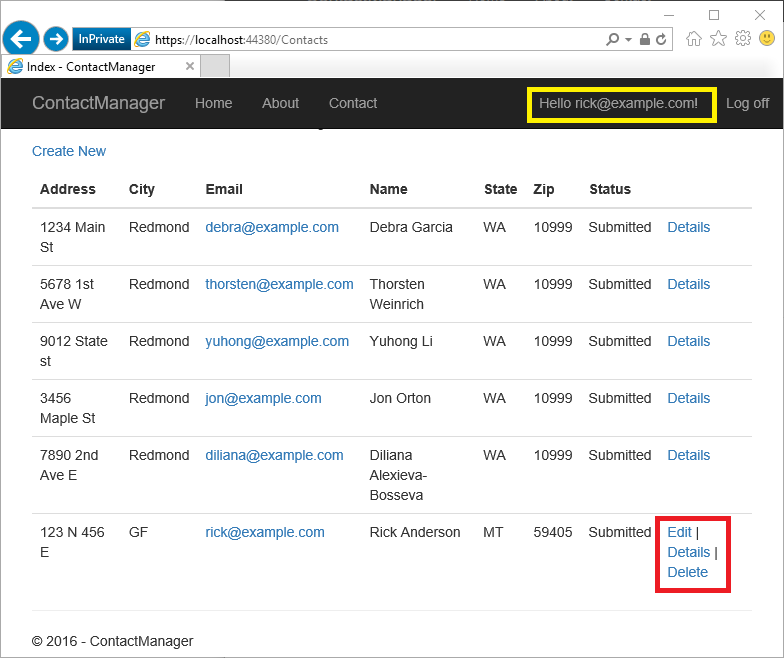
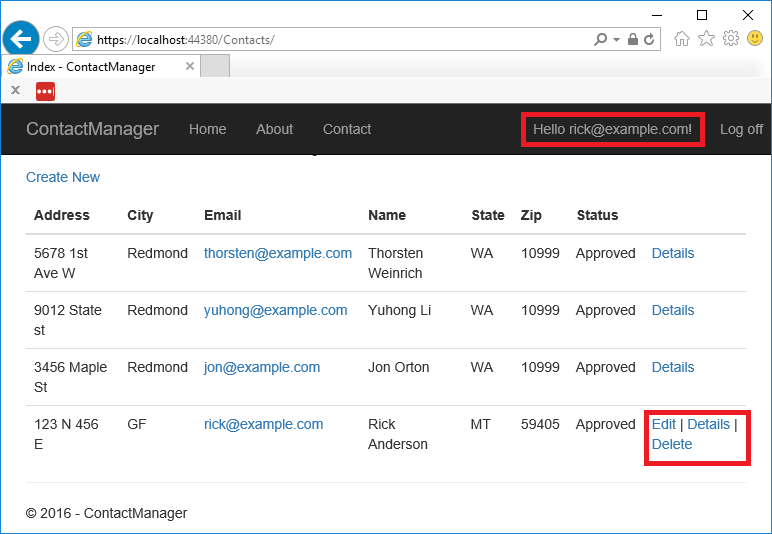
work

diff --git a/aspnetcore/security/authorization/secure-data/samples/final15/Controllers/ContactsController.cs b/aspnetcore/security/authorization/secure-data/samples/final15/Controllers/ContactsController.cs
@@ -33,18 +33,18 @@ namespace ContactManager.Controllers
         #endregion
 
         // GET: Contacts
-        public async Task<IActionResult> Index(int? id)
+        public async Task<IActionResult> Index()
         {
-
             var contacts = from c in _context.Contact
                            select c;
 
+            // REVIEW: Must be a cleaner way.
             var contactDB = await _context.Contact.FirstOrDefaultAsync();
 
             var isAuthorized = await _authorizationService.AuthorizeAsync(
                                                        User, contactDB,
                                                        ContactOperations.Approve);
-
+            // Review: good if users could see their own contacts before approval.
             if (!isAuthorized)
             {
                 contacts = contacts.Where(c => c.Status == ContactStatus.Approved);
@@ -65,6 +65,21 @@ namespace ContactManager.Controllers
             if (contact == null)
             {
                 return NotFound();
+            }
+
+            var isAuthorizedRead = await _authorizationService.AuthorizeAsync(
+                                                       User, contact,
+                                                       ContactOperations.Read);
+
+            var isAuthorizedApprove = await _authorizationService.AuthorizeAsync(
+                                           User, contact,
+                                           ContactOperations.Approve);
+
+            if (contact.Status != ContactStatus.Approved &&   // Not approve
+                                  !isAuthorizedRead &&        // Don't own it
+                                  !isAuthorizedApprove)       // Not a manager
+            {
+                return new ChallengeResult();
             }
 
             return View(contact);
@@ -112,10 +127,10 @@ namespace ContactManager.Controllers
             {
                 return new ChallengeResult();
             }
-            
+
             _context.Add(contact);
             await _context.SaveChangesAsync();
-            return RedirectToAction("Index");            
+            return RedirectToAction("Index");
         }
         #endregion
 
@@ -136,7 +151,7 @@ namespace ContactManager.Controllers
             }
 
             var isAuthorized = await _authorizationService.AuthorizeAsync(
-                                                        User, contactDB, 
+                                                        User, contactDB,
                                                         ContactOperations.Update);
             if (!isAuthorized)
             {
@@ -158,7 +173,7 @@ namespace ContactManager.Controllers
         // POST: Contacts/Edit/5
         [HttpPost]
         [ValidateAntiForgeryToken]
-        public async Task<IActionResult> Edit(int id, 
+        public async Task<IActionResult> Edit(int id,
             [Bind("ContactId,Address,City,Email,Name,State,Zip")] ContactEditViewModel editModel)
         {
             // Why is this here? Scaffolding??
@@ -167,7 +182,7 @@ namespace ContactManager.Controllers
                 return NotFound();
             }
 
-            if(!ModelState.IsValid)
+            if (!ModelState.IsValid)
             {
                 return View(editModel);
             }
@@ -185,27 +200,27 @@ namespace ContactManager.Controllers
             {
                 return new ChallengeResult();
             }
-            
+
             contact.Address = editModel.Address;
             contact.City = editModel.City;
             contact.Email = editModel.Email;
             contact.Name = editModel.Name;
             contact.State = editModel.State;
             contact.Zip = editModel.Zip;
-            
-            if(contact.Status == ContactStatus.Approved)
+
+            if (contact.Status == ContactStatus.Approved)
             {
                 // If the contact is updated after approval, 
                 // and the user cannot approve set the status back to submitted
                 var canApprove = await _authorizationService.AuthorizeAsync(User, contact,
                                         ContactOperations.Approve);
 
-                if(!canApprove) contact.Status = ContactStatus.Submitted;
+                if (!canApprove) contact.Status = ContactStatus.Submitted;
             }
-            
+
             _context.Update(contact);
             await _context.SaveChangesAsync();
-           
+
             return RedirectToAction("Index");
         }
         #endregion

diff --git a/aspnetcore/security/authorization/secure-data/samples/final15/Startup.cs b/aspnetcore/security/authorization/secure-data/samples/final15/Startup.cs
@@ -104,9 +104,9 @@ namespace ContactManager
         }
         #endregion
 
+        #region snippetUserPW
         public void Configure(IApplicationBuilder app, IHostingEnvironment env)
         {
-
             if (env.IsDevelopment())
             {
                 app.UseDeveloperExceptionPage();
@@ -121,15 +121,8 @@ namespace ContactManager
 
             app.UseIdentity();
 
-            // Add external authentication middleware below. To configure them please see http://go.microsoft.com/fwlink/?LinkID=532715
-            app.UseMvc(routes =>
-            {
-                routes.MapRoute(
-                    name: "default",
-                    template: "{controller=Home}/{action=Index}/{id?}");
-            });
+            app.UseMvcWithDefaultRoute();
 
-            #region snippetUserPW
             // Set password with the Secret Manager tool.
             // dotnet user-secrets set SeedUserPW <pw>
             var testUserPw = Configuration["SeedUserPW"];

diff --git a/aspnetcore/security/authorization/secure-data/samples/final15/Data/SeedData.cs b/aspnetcore/security/authorization/secure-data/samples/final15/Data/SeedData.cs
@@ -93,6 +93,7 @@ namespace ContactManager.Data
                     State = "WA",
                     Zip = "10999",
                     Email = "debra@example.com",
+                    Status = ContactStatus.Approved,
                     OwnerID = uid
                 },
             #endregion
@@ -105,6 +106,7 @@ namespace ContactManager.Data
                     State = "WA",
                     Zip = "10999",
                     Email = "thorsten@example.com",
+                    Status = ContactStatus.Approved,
                     OwnerID = uid
                 },
              new Contact
@@ -115,6 +117,7 @@ namespace ContactManager.Data
                  State = "WA",
                  Zip = "10999",
                  Email = "yuhong@example.com",
+                 Status = ContactStatus.Approved,
                  OwnerID = uid
              },
              new Contact

diff --git a/aspnetcore/security/authorization/secure-data/samples/final15/Authorization/ContactIsOwnerAuthorizationHandler.cs b/aspnetcore/security/authorization/secure-data/samples/final15/Authorization/ContactIsOwnerAuthorizationHandler.cs
@@ -33,8 +33,8 @@ namespace ContactManager.Authorization
 
             // Review: I commented this out
             // Why do we skip if checking for manager role? Do we need this check?
-            //if (requirement.Name != Constants.ApproveOperationName && 
-            //    requirement.Name != Constants.RejectOperationName)
+            if (requirement.Name != Constants.ApproveOperationName &&
+                requirement.Name != Constants.RejectOperationName)
             {
                 if (resource.OwnerID == _userManager.GetUserId(context.User))
                 {

diff --git a/aspnetcore/security/authorization/secure-data/samples/final15/Models/Contact.cs b/aspnetcore/security/authorization/secure-data/samples/final15/Models/Contact.cs
@@ -20,7 +20,6 @@ namespace ContactManager.Models
 
         public ContactStatus Status { get; set; }
     }
-    #endregion
 
     public enum ContactStatus
     {
@@ -28,4 +27,5 @@ namespace ContactManager.Models
         Approved,
         Rejected
     }
+    #endregion
 }

diff --git a/aspnetcore/security/authorization/secure-data.md b/aspnetcore/security/authorization/secure-data.md
@@ -15,29 +15,41 @@ uid: security/authorization/secure-data
 
 By [Rick Anderson](https://twitter.com/RickAndMSFT) and [Joe Audette](https://twitter.com/joeaudette)
 
-This tutorial shows how to create a web app with user data protected by authorization. It  displays a list of contacts that Authenticated (registered) users have created. In the following image, user `rick@example.com` is signed in. Only the last record, created by `rick@example.com` displays edit and delete links:
+This tutorial shows how to create a web app with user data protected by authorization. It  displays a list of contacts that Authenticated (registered) users have created. In the following image, user `rick@example.com` is signed in. Only the last record, created by `rick@example.com` displays edit and delete links. User Rick can only view approved contacts.
 
 ![image described above](secure-data/_static/rick.png)
 
-Authenticated users can read all the contacts but can only edit their own contacts. 
+Authenticated users can read all approved contacts but can only edit their own contacts. 
 
-In the following image, `manager@contoso.com` is signed in and in the managers role. The following image shows the details view of a contact. The manager can approve or reject a contact. The status field on the Index page shows `Submitted` for new data, and ``Approved` or `Rejected` once the manager marks the data.
+In the following image, `manager@contoso.com` is signed in and in the managers role. 
+
+![image described above](secure-data/_static/manager1.png)
+
+The manager can view all images. The manager can only edit and delete contacts she creates. The status field on the Index page shows `Submitted`, `Approved`, or `Rejected`. The manager or administrator can set a contact to `Approved` or `Rejected`
+
+The following image shows the details view of a contact. The manager can approve or reject a contact. 
 
 ![image described above](secure-data/_static/manager.png)
 
-The app was created by scaffolding the following `Contact` model:
+In the following image, `admin@contoso.com` is signed in and in the administrators role. 
+
+![image described above](secure-data/_static/admin.png)
+
+The administrator has all privlidges. She can read/edit/delete any contact and change the status of contacts.
+
+The app was created by [scaffolding](xref:tutorials/first-mvc-app-xplat/adding-model#scaffold-the-moviecontroller)  the following `Contact` model:
 
 [!code-csharp[Main](secure-data/samples/starter/Models/Contact.cs?name=snippet1)]
 
 The contact information properties (Address, Name, etc.) are displayed in the images above. `ContactId` is the primary key for the table.
 
-A `ContactIsOwnerAuthorizationHandler` authorization handler ensures that data can only be edited by the data owner. A `ContactManagerAuthorizationHandler` authorization handler allows managers to approve or reject contacts.  A `ContactAdministratorsAuthorizationHandler`  authorization handler allows administrators to approve or reject contacts and to edit/delete contacts. 
+A `ContactIsOwnerAuthorizationHandler` authorization handler ensures that data can only be edited by the data owner. A `ContactManagerAuthorizationHandler` authorization handler allows managers to approve or reject contacts.  A `ContactAdministratorsAuthorizationHandler` authorization handler allows administrators to approve or reject contacts and to edit/delete contacts. 
 
-  ## Prerequisites
+## Prerequisites
 
 This is not a beginning tutorial. You should be familiar with [creating an ASP.NET Core MVC app](xref:tutorials/first-mvc-app/start-mvc).
 
-  ## The starter app
+## The starter app
 
 [Download](https://github.com/aspnet/Docs/tree/master/aspnet/security/authorization/secure-data/samples/starter) and test the starter app. See [Create the starter app](#create-the-starter-app) if you'd like to create it.
 
@@ -50,13 +62,13 @@ Update the database:
 
 Run the app, tap the **ContactManager** link, and verify you can create, edit, and delete a contact.
 
-  ## Tie the contact data to the user
+## Tie the contact data to the user
 
 We'll use the ASP.NET [Identity](xref:security/authentication/identity) user ID to ensure users can edit their data, but not other users data. Add `OwnerID` to the `Contact` model :
 
-[!code-csharp[Main](secure-data/samples/final15/Models/Contact.cs?name=snippet1&highlight=5-6)]
+[!code-csharp[Main](secure-data/samples/final15/Models/Contact.cs?name=snippet1&highlight=5-6,16-)]
 
-`OwnerID` is the user's ID from the `AspNetUser` table in the [Identity](xref:security/authentication/identity) database.
+`OwnerID` is the user's ID from the `AspNetUser` table in the [Identity](xref:security/authentication/identity) database. The `Status` field determines if a contact is viewable by general users. 
 
 Scaffold a new migration and update the database:
 
@@ -65,7 +77,7 @@ dotnet ef migrations add userID
 dotnet ef database update
  ```
 
-  ## Require SSL and authenticated users
+## Require SSL and authenticated users
 
 In the `ConfigureServices` method of the *Startup.cs* file, add the [RequireHttpsAttribute](http://docs.asp.net/projects/api/en/latest/autoapi/Microsoft/AspNetCore/Mvc/RequireHttpsAttribute/index.html.md#Microsoft.AspNetCore.Mvc.RequireHttpsAttribute.md) authorization filter that requires all requests use HTTPS:
 
@@ -91,11 +103,11 @@ dotnet user-secrets set SeedUserPW <PW>
 
 Update `Configure` to use the test password:
 
-[!code-csharp[Main](secure-data/samples/final15/Startup.cs?name=snippetUserPW&highlight=2)]
+[!code-csharp[Main](secure-data/samples/final15/Startup.cs?name=Configure&highlight=19-21)]
 
-Add the test accounts user ID to the seed data. Only one contact is shown, add the user ID to all contacts:
+Add the test accounts user ID and `Status = ContactStatus.Approved` to a couple of the contacts. Only one contact is shown, add the user ID to all contacts:
 
-[!code-csharp[Main](secure-data/samples/final15/Data/SeedData.cs?name=snippet1&highlight=16)]
+[!code-csharp[Main](secure-data/samples/final15/Data/SeedData.cs?name=snippet1&highlight=16,17)]
 
 Delete all the records in the `Contact` table and restart the app to seed the database. You'll need to register a user to browse the contact database.
 
@@ -150,7 +162,7 @@ Update both `Delete` methods to use the authorization handler to verify the user
 
 [!code-csharp[Main](secure-data/samples/final15/Controllers/ContactsController.cs?name=snippet_Delete)]
 
-  ## Inject the authorization service into the views
+## Inject the authorization service into the views
 
 Currently the UI shows edit and delete links for data the user cannot modify. We'll fix that by applying the authorization handler to the views.
 
@@ -209,7 +221,7 @@ You could write a handler that fails the requirements, even if the other handler
 
 -->
 
-  ## Test the app
+## Test the app
 
 An easy way to test the changes we made is to launch three different browsers (or incognito/InPrivate versions). Register a new user, for example, `test@example.com`. Sigin to each browser with a different user. 
 
@@ -224,7 +236,7 @@ An easy way to test the changes we made is to launch three different browsers (o
 | test@example.com | Can edit/delete own data |
 
 
-  ## Create the starter app
+## Create the starter app
 
 * Create a new **ASP.NET Core Web Application** using [Visual Studio 2015](https://www.visualstudio.com/en-us/visual-studio-homepage-vs.aspx) named "ContactManager"
 
@@ -264,7 +276,7 @@ The updated markup:
 
 * Test the app by creating, editing and deleting a contact
 
-  ## Seed the database
+## Seed the database
 
 Add the `SeedData` class to the *Data* folder. If you've downloaded the sample, you can copy the *SeedData.cs* file to the *Data* folder of the starter project.
 
@@ -287,7 +299,7 @@ Test that the app seeded the database. The seed method will not run if there are
 
 <a name=secure-data-add-resources-label></a>
 
-  ### Additional resources
+### Additional resources
 
 * [ASP.NET Core Authorization Lab](https://github.com/blowdart/AspNetAuthorizationWorkshop)
 * [Authorization](index.md)
